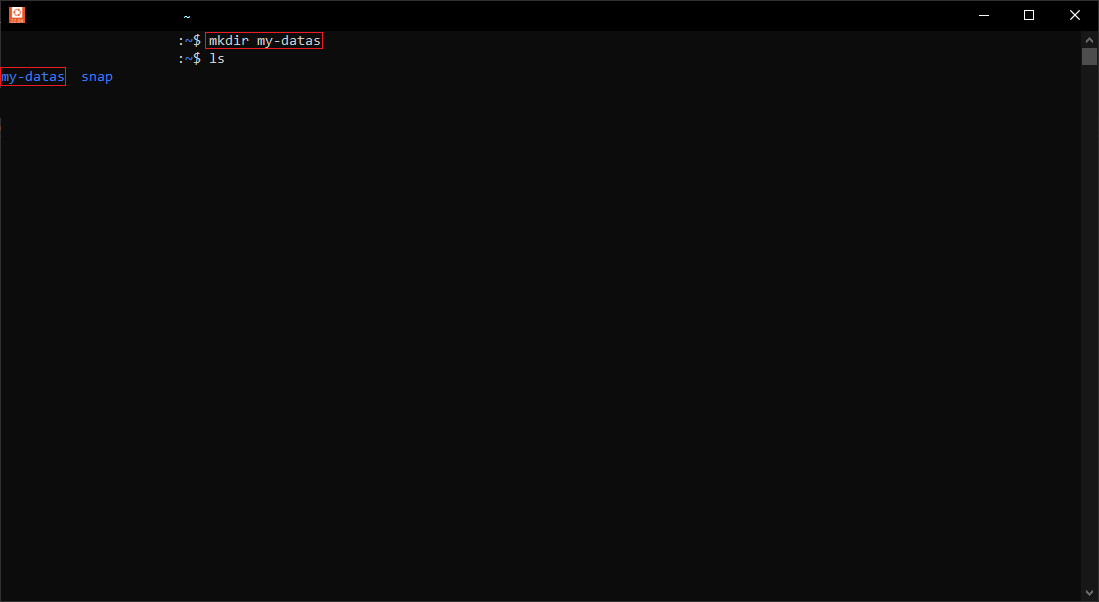
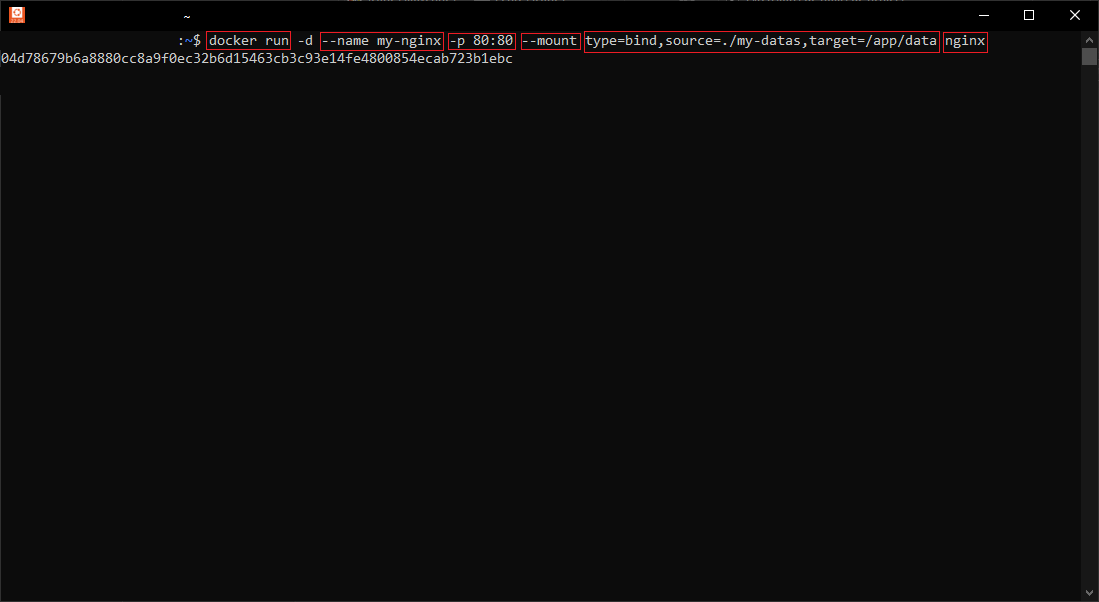
docs: add solution

Changed region(s): [[0.0, 0.0299, 0.8972, 0.1495]]

diff --git a/README.md b/README.md
@@ -1,5 +1,24 @@
-# 5. Créer un dossier `my-datas` sur votre disque.
+# 6. Démarrer un conteneur nommé `my-nginx` de l'image `nginx`
 
-Pour créer un dossier avec la CLI, il suffit d'exécuter la commande `mkdir` suivi du nom du dossier :
+Pour démarrer un conteneur nommé `my-nginx` de l'image `nginx`, il suffit d'exécuter la commande `docker run` :
+
+![](./assets/cli-2.png)
+
+- `docker run` : Sert à dire à Docker que nous voulons lancer un conteneur
+- `--name` : Définit le nom du conteneur
+- `-p` : Définit la redirection du port de l'hôte vers le port de conteneur (ici port `80` de l'hôte vers le port `80` du conteneur)
+- `-v` : Définit que nous allons monter un volume
+  - `./my-datas` : Le chemin d'accès du volume
+  - `/app/data` : Le chemin d'accès du conteneur
+- `nginx` : Le nom de l'image à partir de laquelle on démarre le conteneur.
+
+Ici, Docker déduit que le chemin d'accès (`./my-datas`) ne correspond pas à un volume, il sait donc qu'il s'agit d'un `bind-mount`.
+
+Voici une version plus détaillée pour monter un bind-mount proprement :
 
 ![](./assets/cli.png)
+
+- `--mount` : Dit qu'il s'agit d'un montage d'espace de stockage interne au conteneur.
+  - `type=bind` : Définit le type de montage (ici `bind`, donc un `bind-mount`)
+  - `source=./my-datas` : Définit le chemin d'accès source du bind-mount (Chemin d'accès de l'hôte).
+  - `target=/app/data` : Définit le chemin d'accès du bind-mount dans le conteneur.
